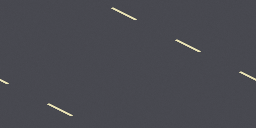
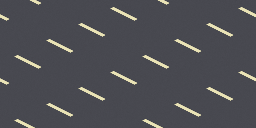
Two-lane street in level 1, taller town in 3D, rain off, road lines fixed
- THE STREETS: the street is two lanes (rows 6-9) with a dashed centre line
  between them (new floor roadLineXEdge) and traffic both ways; enemy
  spawns moved off the new lane
- 3D: buildings (walls h >= 4) and tall street furniture are drawn 1.5x
  taller (TOWN_SCALE), so a terrace isn't barely taller than three lads;
  visual only, collision and heights are unchanged
- rain is off everywhere (no streaks, no hiss or drips); snow stays
- road line tiles: the n x n floor sheet is sampled at (tx % n, ty % n), but
  the lines were only drawn in its first row/column, so they showed only on
  rows/columns divisible by 4 (the new centre line never appeared). Lines
  are now drawn in every row/column and ~0.1 tile wide so they survive the
  3D floor bake

diff --git a/src/content/levels/l1_streets.js b/src/content/levels/l1_streets.js
@@ -1,5 +1,5 @@
 // LEVEL 1 — THE STREETS
-// Rainy Saturday lunchtime. Portside City have come early and are drinking in your streets.
+// Saturday lunchtime. Portside City have come early and are drinking in your streets.
 // Route: main street (2 encounters) -> back alley (secret yard via fake wall) -> square (3 waves)
 //        -> car park under the railway viaduct (BOSS: BIG TEL) -> through the arches to the pub.
 import '../themes/common.js';
@@ -8,7 +8,7 @@ export default {
   id: 'streets',
   num: 1,
   name: 'THE STREETS',
-  subtitle: 'SATURDAY. 12:47. RAIN.',
+  subtitle: 'SATURDAY. 12:47.',
   intro: [
     'MATCHDAY IN NORDHAMN.',
     'PORTSIDE CITY CAME IN ON THE EARLY TRAIN',
@@ -26,6 +26,7 @@ export default {
     'k': { floor: 'kerbX' },
     '=': { floor: 'road' },
     '-': { floor: 'roadLineX' },
+    '~': { floor: 'roadLineXEdge' },   // centre line of the two-lane street (on the row's south edge)
     'c': { floor: 'cobble' },
     'g': { floor: 'grass' },
     'p': { floor: 'parking' },
@@ -85,9 +86,9 @@ export default {
     'B,P,,L,,,,,,,L,,,,,e,,,,,,L,,,,b                ',
     'Bkkkkkkkkkkkkkkkkkkkkkkkkkkkkkkb                ',
     '================================                ',
-    '--------------------------------                ',
+    '~~~~~~~~~~~~~~~~~~~~~~~~~~~~~~~~                ',
     '============o=============vv====                ',
-    'B,,,,,,,,,,,,,,,,,,,,,,,,,,,,,,b                ',
+    '================================                ',
     'B,,n,,,,,L,,,,,,,y,,,,y,,,,L,,+b                ',
     'bbbbbbbbbbbbbbbbbb....bbbbbbbbbb                ',
     '                 B....b                         ',
@@ -151,13 +152,14 @@ export default {
     { x: 14, y: 19, z: 1, r: 2.5, color: '#c0d0ff', intensity: 0.5 },
   ],
   hazards: [
-    // one-way backstreet: full-size cars (2 tiles wide) use the whole 3-tile road, eastbound only
-    { type: 'traffic', lane: [{ x: -6, y: 7.5 }, { x: 38, y: 7.5 }], interval: [6, 12], speed: 8.5, offset: 3, dmg: 14 },
+    // a two-lane street (rows 6-9, centre line between 7 and 8): full-size cars (2 tiles wide), one lane each way
+    { type: 'traffic', lane: [{ x: 38, y: 7.0 }, { x: -6, y: 7.0 }], interval: [7, 13], speed: 8, offset: 2, dmg: 14 },
+    { type: 'traffic', lane: [{ x: -6, y: 9.0 }, { x: 38, y: 9.0 }], interval: [7, 13], speed: 8.5, offset: 6, dmg: 14 },
   ],
   triggers: [
     { area: { x: 1, y: 3, w: 5, h: 8 }, msg: 'J  K  = PUNCH    L = KICK', sub: 'SPACE JUMP  SHIFT BLOCK  O DODGE  I GRAB', dur: 5, color: '#ffe14a' },
     { area: { x: 17, y: 3, w: 3, h: 3 }, toast: 'E = PICK UP / USE    I = THROW WEAPON' },
-    { area: { x: 1, y: 6, w: 30, h: 3 }, toast: 'MIND THE TRAFFIC! (IT HITS THEM TOO)' },
+    { area: { x: 1, y: 6, w: 30, h: 4 }, toast: 'MIND THE TRAFFIC! (IT HITS THEM TOO)' },
     { area: { x: 18, y: 12, w: 4, h: 2 }, toast: '1 2 3 = EAT & DRINK    TAB = INVENTORY' },
     { area: { x: 20, y: 21, w: 2, h: 2 }, toast: 'THOSE CRATES LOOK CLIMBABLE...' },
   ],
@@ -169,15 +171,15 @@ export default {
     {
       id: 'street1', area: { x: 6, y: 3, w: 4, h: 8 }, lockArea: { x: 1, y: 3, w: 30, h: 8 }, msg: 'PORTSIDE SCUM!',
       waves: [
-        { enemies: [{ type: 'rival', x: 12.5, y: 4.5, from: { x: 21.5, y: 2.6 } }, { type: 'rival', x: 13.5, y: 9.5, from: { x: 19.5, y: 12.5 } }] },
-        { enemies: [{ type: 'rival', x: 16.5, y: 7.5, from: { x: 33, y: 7.5 } }, { type: 'bottler', x: 20.5, y: 9.5, from: { x: 19.5, y: 13 } }] },
+        { enemies: [{ type: 'rival', x: 12.5, y: 4.5, from: { x: 21.5, y: 2.6 } }, { type: 'rival', x: 13.5, y: 10.5, from: { x: 19.5, y: 12.5 } }] },
+        { enemies: [{ type: 'rival', x: 16.5, y: 7.5, from: { x: 33, y: 7.5 } }, { type: 'bottler', x: 20.5, y: 10.5, from: { x: 19.5, y: 13 } }] },
       ],
     },
     {
       id: 'street2', area: { x: 18, y: 3, w: 3, h: 8 }, lockArea: { x: 1, y: 3, w: 30, h: 8 }, msg: 'MORE OF THEM OUTSIDE THE ANCHOR!',
       goTo: { x: 18, y: 12, w: 4, h: 3 },
       waves: [
-        { enemies: [{ type: 'rival', x: 25.5, y: 6.5, from: { x: 33, y: 6.5 } }, { type: 'rival', x: 26.5, y: 9.5, from: { x: 33, y: 8.5 } }, { type: 'rival', x: 24.5, y: 4.5, from: { x: 21.5, y: 2.6 } }] },
+        { enemies: [{ type: 'rival', x: 25.5, y: 6.5, from: { x: 33, y: 6.5 } }, { type: 'rival', x: 26.5, y: 10.5, from: { x: 33, y: 8.5 } }, { type: 'rival', x: 24.5, y: 4.5, from: { x: 21.5, y: 2.6 } }] },
         { enemies: [{ type: 'bruiser', x: 22, y: 5, from: { x: 21.5, y: 2.6 } }] },
       ],
     },

diff --git a/src/render3d/renderer.js b/src/render3d/renderer.js
@@ -65,6 +65,16 @@ const CULL_R = 24;                                // world units around the came
 
 const v3 = (x, y, z = 0) => new THREE.Vector3(x, z * ZS, y);
 
+// Scale of the world against the lads. The characters are about 2.3 units tall (chunky, readable) and the vehicles
+// were rebuilt to match them, but buildings and street furniture were authored small (a two-storey terrace at h 5 was
+// barely taller than three lads). In 3D, buildings (walls h >= BUILDING_H) and tall street furniture are drawn
+// TOWN_SCALE taller, facades stretched with them (doors and windows grow too). Visual only: collision, heights you can
+// stand on and low walls you can jump onto are untouched.
+const TOWN_SCALE = 1.5, BUILDING_H = 4;
+export const wallVisH = h => (h >= BUILDING_H ? h * TOWN_SCALE : h);
+const TALL_PROP = /(^|_)(lamp|phonebox|tree|trafficLight|busStop|busShelter|floodlight|flagpole|post|metroSign|signal|door|gate|arenagate|parkGates|shanklyGates|washpole)$/i;
+const propScale = p => (TALL_PROP.test(p.type) && !/postbox|postSign|milepost/i.test(p.type) ? TOWN_SCALE : 1);
+
 export class Renderer3D {
   constructor(glCanvas, canvas2d) {
     this.gl = glCanvas;
@@ -247,16 +257,16 @@ export class Renderer3D {
     }
     const m = new THREE.Matrix4();
     for (const g of groups.values()) {
-      const geo = this.track(new THREE.BoxGeometry(1, g.h * ZS, 1));
-      geo.translate(0, g.h * ZS / 2, 0);
+      const geo = this.track(new THREE.BoxGeometry(1, wallVisH(g.h) * ZS, 1));
+      geo.translate(0, wallVisH(g.h) * ZS / 2, 0);
       const mesh = new THREE.InstancedMesh(geo, this.wallMaterials(g.style, g.h, g.variant, false), g.list.length);
       g.list.forEach((w, i) => { m.makeTranslation(w.tx + 0.5, 0, w.ty + 0.5); mesh.setMatrixAt(i, m); });
       mesh.castShadow = true; mesh.receiveShadow = true;
       this.scene.add(mesh);
     }
     this.fakeWalls = fakes.map(w => {
-      const geo = this.track(new THREE.BoxGeometry(1, w.w.h * ZS, 1));
-      geo.translate(0, w.w.h * ZS / 2, 0);
+      const geo = this.track(new THREE.BoxGeometry(1, wallVisH(w.w.h) * ZS, 1));
+      geo.translate(0, wallVisH(w.w.h) * ZS / 2, 0);
       const mats = this.wallMaterials(w.w.style, w.w.h, w.w.variant, true).map(mm => mm);
       const mesh = new THREE.Mesh(geo, mats);
       mesh.position.set(w.tx + 0.5, 0, w.ty + 0.5);
@@ -353,10 +363,10 @@ export class Renderer3D {
   }
 
   placeBoard(b, wx, wy, wz, order, shift = 0) {
-    const m = b.mesh;
+    const m = b.mesh, k = b.k || 1;                // k: town scale for tall street furniture (about the anchor)
     m.position.set(wx, wz * ZS, wy)
-      .addScaledVector(RIGHT, (b.wl / 2 - b.ax) / K)
-      .addScaledVector(THREE.Object3D.DEFAULT_UP, (b.ay - b.hl / 2) / PXV)
+      .addScaledVector(RIGHT, (b.wl / 2 - b.ax) * k / K)
+      .addScaledVector(THREE.Object3D.DEFAULT_UP, (b.ay - b.hl / 2) * k / PXV)
       .addScaledVector(VIEW_DIR, shift);
     m.renderOrder = Math.round(order * 64);
     m.visible = true;
@@ -402,6 +412,8 @@ export class Renderer3D {
     b.tex.needsUpdate = true;
     const decal = !p.solid && (p.h || 0) <= 0 && (p.o.side || /sign|graffiti|banner|poster|tactics|shirts/.test(p.type));
     b.shift = decal ? 0.9 : 0.12;
+    b.k = propScale(p);
+    if (b.k !== 1) b.mesh.scale.multiplyScalar(b.k);
     return b;
   }
 

diff --git a/src/game/world.js b/src/game/world.js
@@ -1035,7 +1035,7 @@ export class World {
 
   updateWeather(dt) {
     const w = this.level.weather;
-    if (w !== 'rain' && w !== 'snow') return;
+    if (w !== 'snow') return;                  // rain is off everywhere (owner's call: it got on your nerves); snow stays
     const target = w === 'rain' ? 160 : 90;
     while (this.rain.length < target) this.rain.push({ x: Math.random() * VIEW_W, y: Math.random() * VIEW_H, s: 0.6 + Math.random() * 0.6 });
     for (const r of this.rain) {
@@ -1297,10 +1297,7 @@ export class World {
 
   drawWeather(ctx) {
     const w = this.level.weather;
-    if (w === 'rain') {
-      ctx.fillStyle = 'rgba(160,190,230,0.45)';
-      for (const r of this.rain) ctx.fillRect(Math.round(r.x), Math.round(r.y), 1, Math.round(5 * r.s + 2));
-    } else if (w === 'snow') {
+    if (w === 'snow') {
       ctx.fillStyle = 'rgba(240,240,255,0.8)';
       for (const r of this.rain) ctx.fillRect(Math.round(r.x), Math.round(r.y), r.s > 0.9 ? 2 : 1, r.s > 0.9 ? 2 : 1);
     }

diff --git a/src/content/themes/common.js b/src/content/themes/common.js
@@ -68,6 +68,13 @@ registerFloor('roadLineX', {
     return asphaltPix(u, v, tx, ty, 2, ROAD, false);
   },
 });
+// the same line on the row's +y edge: the middle of a road with an even number of rows (two 2-tile lanes)
+registerFloor('roadLineXEdge', {
+  pixel(u, v, tx, ty) {
+    if (v > 0.86 && v < 0.98 && ((tx % 2) === 0 ? u > 0.1 && u < 0.85 : false)) return paintWorn(u, v, tx, ty);
+    return asphaltPix(u, v, tx, ty, 2, ROAD, false);
+  },
+});
 registerFloor('roadLineY', {
   pixel(u, v, tx, ty) {
     if (Math.abs(u - 0.5) < 0.055 && ((ty % 2) === 0 ? v > 0.1 && v < 0.85 : false)) return paintWorn(u, v, tx, ty);

diff --git a/src/audio/music.js b/src/audio/music.js
@@ -1516,9 +1516,9 @@ const Amb = {
     try {
       const h = typeof window !== 'undefined' && window.__hooligan;
       const w = h && h.world;
-      if (w && w.level) return w.level.weather || null;
+      if (w && w.level) return w.level.weather === 'rain' ? null : w.level.weather || null;   // rain is off: no hiss or drips
     } catch (e) { /* ok */ }
-    return this.kind === 'street' && Crowd.track === 'streets' ? 'rain' : null;
+    return null;
   },
   tick() {
     const E = this.E, c = E.ctx, t = c.currentTime;

diff --git a/scripts/blender/env_common.py b/scripts/blender/env_common.py
@@ -97,12 +97,16 @@ def floor_road(line=None):
     def build(ctx, n):
         ctx.plane(0, 0, n, n, ctx.noise_mat('road', _h('#222228'), _h('#36363e'), scale=55, rough=0.6, bump=0.5, detail=10, period=n))
         paint = ctx.mat('paint', _h('#d8d0a0'), 0.7)
-        if line == 'x':
-            for i in range(0, n, 2): ctx.box(i, 0.47 + 0.0, 0, 0.75, 0.06, 0.004, paint)
-        if line == 'y':
-            for i in range(0, n, 2): ctx.box(0.47, i, 0, 0.06, 0.75, 0.004, paint)
-        if line in ('x', 'y'):
-            pass
+        # The sheet is n x n tiles and a level samples it at (tx % n, ty % n), so a line must be drawn in EVERY row
+        # (x lines) or column (y lines) of the sheet, or it only shows where ty % n == 0. Lines are ~0.1 tile wide so
+        # they survive the 3D floor bake (24 texels per tile).
+        for j in range(n):
+            if line == 'x':
+                for i in range(0, n, 2): ctx.box(i, j + 0.45, 0, 0.75, 0.1, 0.004, paint)
+            if line == 'xe':    # dashed centre line on the tile's +y edge: a road with an even number of rows (two lanes of 2)
+                for i in range(0, n, 2): ctx.box(i, j + 0.86, 0, 0.75, 0.12, 0.004, paint)
+            if line == 'y':
+                for i in range(0, n, 2): ctx.box(j + 0.45, i, 0, 0.1, 0.75, 0.004, paint)
     return build
 
 def floor_pavement(ctx, n):
@@ -367,6 +371,7 @@ PIECES = [
     dict(kind='floor', id='asphalt', n=4, build=floor_asphalt),
     dict(kind='floor', id='road', n=4, build=floor_road()),
     dict(kind='floor', id='roadLineX', n=4, build=floor_road('x')),
+    dict(kind='floor', id='roadLineXEdge', n=4, build=floor_road('xe')),
     dict(kind='floor', id='roadLineY', n=4, build=floor_road('y')),
     dict(kind='floor', id='pavement', n=4, build=floor_pavement),
     dict(kind='floor', id='kerbX', n=4, build=floor_kerb_x),
